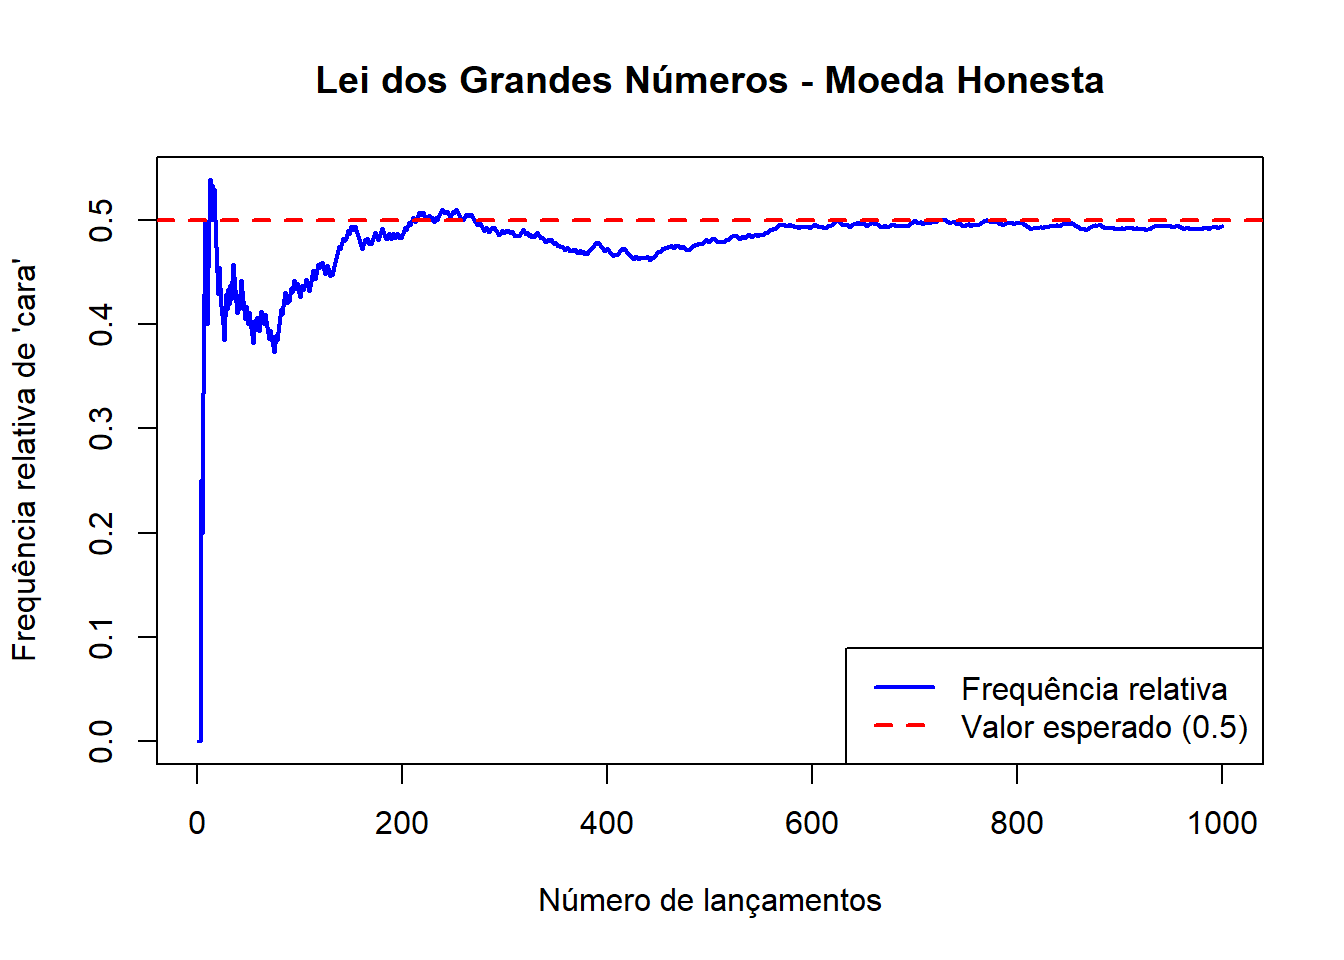
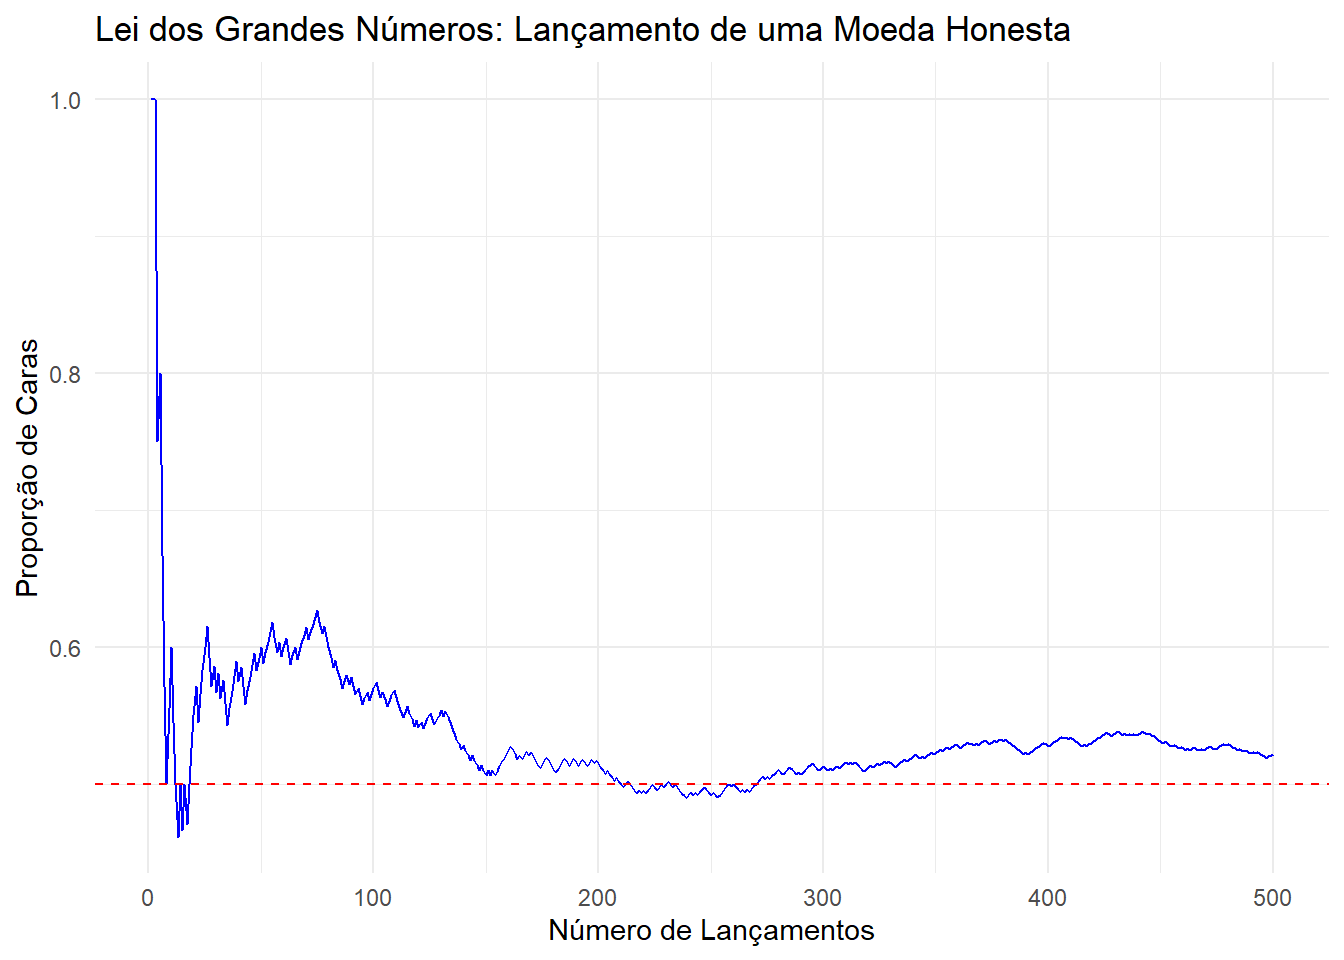
add python script

diff --git a/docs/Probabilidade/LGN.html b/docs/Probabilidade/LGN.html
@@ -226,6 +226,8 @@ window.Quarto = {
   <ul class="collapse">
   <li><a href="#lei-forte-dos-grande-números" id="toc-lei-forte-dos-grande-números" class="nav-link" data-scroll-target="#lei-forte-dos-grande-números">Lei Forte dos Grande Números</a></li>
   <li><a href="#lei-fraca-dos-grande-números" id="toc-lei-fraca-dos-grande-números" class="nav-link" data-scroll-target="#lei-fraca-dos-grande-números">Lei Fraca dos Grande Números</a></li>
+  <li><a href="#relação-entre-leis-e-convergências" id="toc-relação-entre-leis-e-convergências" class="nav-link" data-scroll-target="#relação-entre-leis-e-convergências">Relação entre Leis e Convergências</a></li>
+  <li><a href="#exemplo-o-caso-bernoulli" id="toc-exemplo-o-caso-bernoulli" class="nav-link" data-scroll-target="#exemplo-o-caso-bernoulli">Exemplo: O caso Bernoulli</a></li>
   <li><a href="#exemplo-computacional" id="toc-exemplo-computacional" class="nav-link" data-scroll-target="#exemplo-computacional">Exemplo Computacional</a>
   <ul class="collapse">
   <li><a href="#links-úteis" id="toc-links-úteis" class="nav-link" data-scroll-target="#links-úteis">Links Úteis:</a></li>
@@ -258,7 +260,7 @@ window.Quarto = {
 
 <section id="introdução-e-condições-iniciais" class="level1">
 <h1>Introdução e Condições Iniciais</h1>
-<p>A Lei dos Grandes Números é um dos resultados mais famosos da Teoria da Probabilidade.</p>
+<p>A Lei dos Grandes Números (LGN) é um dos resultados mais famosos da Teoria da Probabilidade.</p>
 <p>Sejam <span class="math inline">\(X_1, X_2, ...\)</span> variáveis aleatórias independentes e identicamente distribuídas (<span class="math inline">\(iid\)</span>) com média e variância existentes e finitas. Isto é:</p>
 <p><span class="math inline">\(-\infty &lt; \mu &lt; +\infty\)</span></p>
 <p><span class="math inline">\(0 &lt; \sigma^2 &lt; +\infty\)</span></p>
@@ -270,6 +272,7 @@ window.Quarto = {
 <p><span class="math inline">\(\bar{X} \xrightarrow{n \rightarrow + \infty} \mu\)</span> com probabilidade 1.</p>
 <p>Observe que <span class="math inline">\(\bar{X} \xrightarrow{n \rightarrow + \infty} \mu\)</span> é um <strong>evento</strong>. Logo, a Lei Forte poderia ser reescrita com uma notação probabilística alternativa:</p>
 <p><span class="math inline">\(P\left(\bar{X} \xrightarrow{n \rightarrow + \infty} \mu \right) = 1\)</span></p>
+<p>Este resultado estabelece que <span class="math inline">\(\bar{X}\)</span> converge <em>quase certamente</em> para <span class="math inline">\(\mu\)</span>. Podemos interpretar esse resultado como sendo <em>à medida que n cresce, no infinito, <span class="math inline">\(\bar{X}\)</span> e <span class="math inline">\(\mu\)</span> serão iguais</em>. Ou seja, é uma convergência pontual do valor de uma variável aleatória para uma constante (a média populacional).</p>
 <p>A prova deste teorema implica em provar que o evento acima é um evento de probabilidade 1, o que exige maior formalidade matemática fazendo uso do <a href="https://pt.wikipedia.org/wiki/Lema_de_Borel-Cantelli">Lema de Borel-Cantelli</a>.</p>
 <p><strong>Prova.</strong> Ver Cáp. 5 de <span class="citation" data-cites="barryjames2023">James (<a href="#ref-barryjames2023" role="doc-biblioref">2023</a>)</span>.</p>
 </section>
@@ -277,8 +280,26 @@ window.Quarto = {
 <h2 class="anchored" data-anchor-id="lei-fraca-dos-grande-números">Lei Fraca dos Grande Números</h2>
 <p>A Lei Fraca estabelece que <span class="math inline">\(\forall \varepsilon &gt; 0\)</span>, então:</p>
 <p><span class="math inline">\(P\left(\left| \bar{X} - \mu \right| \ge \varepsilon \right) \xrightarrow{n \rightarrow + \infty} 0\)</span></p>
-<p><strong>Prova.</strong> A prova faz uso da Desigualdade de Chebyshev:</p>
-<p><span class="math inline">\(P\left(\left| \bar{X} - \mu \right| \ge \varepsilon \right) \overset{\text{Des. Cheb.}}{\le} \frac{Var(\bar{X})}{\varepsilon^2} = \frac{Var\left(\frac{\sum_{i=1}^{n}{X_i}}{n}\right)}{\varepsilon^2} \overset{\text{Prop. Esper.}}{=} \frac{Var(\sum_{i=1}^{n}{X_i})}{n^2\varepsilon^2} \overset{\text{Indep.}}{=} \frac{\sum_{i=1}^{n}{Var(X_i)}}{n^2\varepsilon^2} \overset{\text{Ident. Dist.}}{=} \frac{n\sigma^2}{n^2\varepsilon^2} = \frac{\sigma^2}{n\varepsilon^2} \xrightarrow{n \rightarrow + \infty} 0\)</span></p>
+<p>Este resultado estabelece que <span class="math inline">\(\bar{X}\)</span> converge <em>em probabilidade</em> para <span class="math inline">\(\mu\)</span>.</p>
+<p><strong>Prova.</strong> A prova faz uso da <a href="https://pt.wikipedia.org/wiki/Desigualdade_de_Chebyshev">Desigualdade de Chebyshev</a>:</p>
+<p><span class="math inline">\(P\left(\left| \bar{X} - \mu \right| \ge \varepsilon \right) \overset{\text{Des. Cheb.}}{\le} \frac{Var(\bar{X})}{\varepsilon^2} = \frac{Var\left(\frac{\sum_{i=1}^{n}{X_i}}{n}\right)}{\varepsilon^2} \overset{\text{Prop. da Constante}}{=} \frac{Var(\sum_{i=1}^{n}{X_i})}{n^2\varepsilon^2} \overset{\text{Indep.}}{=} \frac{\sum_{i=1}^{n}{Var(X_i)}}{n^2\varepsilon^2} \overset{\text{Ident. Dist.}}{=} \frac{n\sigma^2}{n^2\varepsilon^2} = \frac{\sigma^2}{n\varepsilon^2} \xrightarrow{n \rightarrow + \infty} 0\)</span></p>
+<p>Este resultado ilustra que <span class="math inline">\(\bar{X}\)</span> converge <em>em probabilidade</em> para <span class="math inline">\(\mu\)</span>. Podemos interpretar esse resultado como sendo <em>à medida que n cresce, é extremamente improvável que a diferença entre</em> <span class="math inline">\(\bar{X}\)</span> e <span class="math inline">\(\mu\)</span> seja maior que <span class="math inline">\(\varepsilon\)</span>.</p>
+</section>
+<section id="relação-entre-leis-e-convergências" class="level2">
+<h2 class="anchored" data-anchor-id="relação-entre-leis-e-convergências">Relação entre Leis e Convergências</h2>
+<p>É intuitivo pensar afirmarmos que duas quantidades são <strong>iguais</strong> é mais “forte” do que dizer que essas duas quantidades são “altamente prováveis de <strong>estarem próximas</strong>”. Ora, se uma coisa é igual à outra, isso implica de que elas também são próximas. Tendo em vista que a Lei Forte dos Grandes Números representa a convergência <em>quase certa</em> e a Lei Fraca representa a convergência <em>em probabilidade</em>, temos que se</p>
+<p><span class="math inline">\(Convergência\ Quase\ Certa \implies Convergência\ em\ Probabilidade\)</span></p>
+<p>então,</p>
+<p><span class="math inline">\(Lei\ Forte \implies Lei\ Fraca\)</span></p>
+<p>O contrário não vale para nenhuma das duas afirmativas acima.</p>
+</section>
+<section id="exemplo-o-caso-bernoulli" class="level2">
+<h2 class="anchored" data-anchor-id="exemplo-o-caso-bernoulli">Exemplo: O caso Bernoulli</h2>
+<p>Suponha uma sequência independente de lançamentos de uma moeda honesta e a variável aleatória <span class="math inline">\(X_i = 1\)</span> se cara e <span class="math inline">\(X_i = 0\)</span> se coroa. Ou seja,</p>
+<p><span class="math inline">\(X_i \overset{iid}{\sim}Bernoulli(p)\)</span></p>
+<p>onde <span class="math inline">\(p = 0,5\)</span>. Então, pela Lei Forte dos Grandes Números:</p>
+<p><span class="math inline">\(\bar{X} = \frac{\sum_{i=1}^{n}{X_i}}{n} \xrightarrow{n \rightarrow + \infty} p\)</span></p>
+<p>Este resultado mostra que a medida que o jogarmos a moeda infinitas vezes, iremos convergir para um cenário em que metade dos lançamentos serão caras e metade serão coroas. Note que o resultado vale quando <span class="math inline">\(n \rightarrow + \infty\)</span>, ou seja, ele não estabelece nada em uma quantidade finita de lançamentos onde pode existir variabilidade. Por exemplo, mesmo que seja altamente improvável que nos primeiros 100 lançamentos todos os resultados sejam a face “Cara”, não existe nada matematicamente que estabeleça que isso seja impossível. No entanto, no limite do infinito as quantidades iniciais serão “engolidas” pela LGN. Para uma discussão mais aprofundada sobre esse tema recomenda-se uma leitura sobre o <a href="https://en.wikipedia.org/wiki/Gambler%27s_fallacy">Gambler’s Fallacy</a>.</p>
 </section>
 <section id="exemplo-computacional" class="level2">
 <h2 class="anchored" data-anchor-id="exemplo-computacional">Exemplo Computacional</h2>
@@ -286,31 +307,73 @@ window.Quarto = {
 <div class="cell">
 <details class="code-fold">
 <summary>Mostrar Código</summary>
-<div class="sourceCode cell-code" id="cb1"><pre class="sourceCode r code-with-copy"><code class="sourceCode r"><span id="cb1-1"><a href="#cb1-1" aria-hidden="true" tabindex="-1"></a><span class="co"># Definindo parâmetros</span></span>
-<span id="cb1-2"><a href="#cb1-2" aria-hidden="true" tabindex="-1"></a><span class="fu">set.seed</span>(<span class="dv">123</span>)           <span class="co"># Para reprodutibilidade</span></span>
-<span id="cb1-3"><a href="#cb1-3" aria-hidden="true" tabindex="-1"></a>n_lancamentos <span class="ot">&lt;-</span> <span class="dv">1000</span>  <span class="co"># Número total de lançamentos</span></span>
+<div class="sourceCode cell-code" id="cb1"><pre class="sourceCode r code-with-copy"><code class="sourceCode r"><span id="cb1-1"><a href="#cb1-1" aria-hidden="true" tabindex="-1"></a><span class="co"># Carregar as bibliotecas necessárias</span></span>
+<span id="cb1-2"><a href="#cb1-2" aria-hidden="true" tabindex="-1"></a><span class="fu">library</span>(ggplot2)</span>
+<span id="cb1-3"><a href="#cb1-3" aria-hidden="true" tabindex="-1"></a><span class="fu">library</span>(dplyr)</span>
 <span id="cb1-4"><a href="#cb1-4" aria-hidden="true" tabindex="-1"></a></span>
-<span id="cb1-5"><a href="#cb1-5" aria-hidden="true" tabindex="-1"></a><span class="co"># Simulando lançamentos: 1 representa "cara", 0 representa "coroa"</span></span>
-<span id="cb1-6"><a href="#cb1-6" aria-hidden="true" tabindex="-1"></a>resultados <span class="ot">&lt;-</span> <span class="fu">sample</span>(<span class="fu">c</span>(<span class="dv">0</span>, <span class="dv">1</span>), <span class="at">size =</span> n_lancamentos, <span class="at">replace =</span> <span class="cn">TRUE</span>)</span>
+<span id="cb1-5"><a href="#cb1-5" aria-hidden="true" tabindex="-1"></a><span class="co"># Definir o número de lançamentos</span></span>
+<span id="cb1-6"><a href="#cb1-6" aria-hidden="true" tabindex="-1"></a>n <span class="ot">&lt;-</span> <span class="dv">500</span></span>
 <span id="cb1-7"><a href="#cb1-7" aria-hidden="true" tabindex="-1"></a></span>
-<span id="cb1-8"><a href="#cb1-8" aria-hidden="true" tabindex="-1"></a><span class="co"># Calculando a média acumulada (frequência relativa de "cara")</span></span>
-<span id="cb1-9"><a href="#cb1-9" aria-hidden="true" tabindex="-1"></a>media_acumulada <span class="ot">&lt;-</span> <span class="fu">cumsum</span>(resultados) <span class="sc">/</span> (<span class="dv">1</span><span class="sc">:</span>n_lancamentos)</span>
-<span id="cb1-10"><a href="#cb1-10" aria-hidden="true" tabindex="-1"></a></span>
-<span id="cb1-11"><a href="#cb1-11" aria-hidden="true" tabindex="-1"></a><span class="co"># Valor esperado teórico</span></span>
-<span id="cb1-12"><a href="#cb1-12" aria-hidden="true" tabindex="-1"></a>valor_esperado <span class="ot">&lt;-</span> <span class="fl">0.5</span></span>
-<span id="cb1-13"><a href="#cb1-13" aria-hidden="true" tabindex="-1"></a></span>
-<span id="cb1-14"><a href="#cb1-14" aria-hidden="true" tabindex="-1"></a><span class="co"># Plotando o gráfico</span></span>
-<span id="cb1-15"><a href="#cb1-15" aria-hidden="true" tabindex="-1"></a><span class="fu">plot</span>(media_acumulada, <span class="at">type =</span> <span class="st">"l"</span>, <span class="at">col =</span> <span class="st">"blue"</span>, <span class="at">lwd =</span> <span class="dv">2</span>,</span>
-<span id="cb1-16"><a href="#cb1-16" aria-hidden="true" tabindex="-1"></a>     <span class="at">xlab =</span> <span class="st">"Número de lançamentos"</span>, <span class="at">ylab =</span> <span class="st">"Frequência relativa de 'cara'"</span>,</span>
-<span id="cb1-17"><a href="#cb1-17" aria-hidden="true" tabindex="-1"></a>     <span class="at">main =</span> <span class="st">"Lei dos Grandes Números - Moeda Honesta"</span>)</span>
-<span id="cb1-18"><a href="#cb1-18" aria-hidden="true" tabindex="-1"></a><span class="fu">abline</span>(<span class="at">h =</span> valor_esperado, <span class="at">col =</span> <span class="st">"red"</span>, <span class="at">lty =</span> <span class="dv">2</span>, <span class="at">lwd =</span> <span class="dv">2</span>)</span>
-<span id="cb1-19"><a href="#cb1-19" aria-hidden="true" tabindex="-1"></a><span class="fu">legend</span>(<span class="st">"bottomright"</span>, <span class="at">legend =</span> <span class="fu">c</span>(<span class="st">"Frequência relativa"</span>, <span class="st">"Valor esperado (0.5)"</span>),</span>
-<span id="cb1-20"><a href="#cb1-20" aria-hidden="true" tabindex="-1"></a>       <span class="at">col =</span> <span class="fu">c</span>(<span class="st">"blue"</span>, <span class="st">"red"</span>), <span class="at">lty =</span> <span class="fu">c</span>(<span class="dv">1</span>, <span class="dv">2</span>), <span class="at">lwd =</span> <span class="dv">2</span>)</span></code><button title="Copy to Clipboard" class="code-copy-button"><i class="bi"></i></button></pre></div>
+<span id="cb1-8"><a href="#cb1-8" aria-hidden="true" tabindex="-1"></a><span class="co"># Simular lançamentos de uma moeda honesta</span></span>
+<span id="cb1-9"><a href="#cb1-9" aria-hidden="true" tabindex="-1"></a><span class="fu">set.seed</span>(<span class="dv">123</span>) <span class="co"># Para reprodutibilidade</span></span>
+<span id="cb1-10"><a href="#cb1-10" aria-hidden="true" tabindex="-1"></a>lancamentos <span class="ot">&lt;-</span> <span class="fu">sample</span>(<span class="fu">c</span>(<span class="st">"Cara"</span>, <span class="st">"Coroa"</span>), n, <span class="at">replace =</span> <span class="cn">TRUE</span>)</span>
+<span id="cb1-11"><a href="#cb1-11" aria-hidden="true" tabindex="-1"></a></span>
+<span id="cb1-12"><a href="#cb1-12" aria-hidden="true" tabindex="-1"></a><span class="co"># Calcular a proporção acumulada de caras</span></span>
+<span id="cb1-13"><a href="#cb1-13" aria-hidden="true" tabindex="-1"></a>dados <span class="ot">&lt;-</span> <span class="fu">data.frame</span>(lancamentos) <span class="sc">%&gt;%</span></span>
+<span id="cb1-14"><a href="#cb1-14" aria-hidden="true" tabindex="-1"></a>  <span class="fu">mutate</span>(</span>
+<span id="cb1-15"><a href="#cb1-15" aria-hidden="true" tabindex="-1"></a>    <span class="at">n =</span> <span class="fu">row_number</span>(),</span>
+<span id="cb1-16"><a href="#cb1-16" aria-hidden="true" tabindex="-1"></a>    <span class="at">proporcao_cara =</span> <span class="fu">cumsum</span>(lancamentos <span class="sc">==</span> <span class="st">"Cara"</span>) <span class="sc">/</span> n</span>
+<span id="cb1-17"><a href="#cb1-17" aria-hidden="true" tabindex="-1"></a>  )</span>
+<span id="cb1-18"><a href="#cb1-18" aria-hidden="true" tabindex="-1"></a></span>
+<span id="cb1-19"><a href="#cb1-19" aria-hidden="true" tabindex="-1"></a><span class="co"># Criar o gráfico</span></span>
+<span id="cb1-20"><a href="#cb1-20" aria-hidden="true" tabindex="-1"></a><span class="fu">ggplot</span>(dados, <span class="fu">aes</span>(<span class="at">x =</span> n, <span class="at">y =</span> proporcao_cara)) <span class="sc">+</span></span>
+<span id="cb1-21"><a href="#cb1-21" aria-hidden="true" tabindex="-1"></a>  <span class="fu">geom_line</span>(<span class="at">color =</span> <span class="st">"blue"</span>) <span class="sc">+</span></span>
+<span id="cb1-22"><a href="#cb1-22" aria-hidden="true" tabindex="-1"></a>  <span class="fu">labs</span>(<span class="at">title =</span> <span class="st">"Lei dos Grandes Números: Lançamento de uma Moeda Honesta"</span>,</span>
+<span id="cb1-23"><a href="#cb1-23" aria-hidden="true" tabindex="-1"></a>       <span class="at">x =</span> <span class="st">"Número de Lançamentos"</span>,</span>
+<span id="cb1-24"><a href="#cb1-24" aria-hidden="true" tabindex="-1"></a>       <span class="at">y =</span> <span class="st">"Proporção de Caras"</span>) <span class="sc">+</span></span>
+<span id="cb1-25"><a href="#cb1-25" aria-hidden="true" tabindex="-1"></a>  <span class="fu">geom_hline</span>(<span class="at">yintercept =</span> <span class="fl">0.5</span>, <span class="at">linetype =</span> <span class="st">"dashed"</span>, <span class="at">color =</span> <span class="st">"red"</span>) <span class="sc">+</span></span>
+<span id="cb1-26"><a href="#cb1-26" aria-hidden="true" tabindex="-1"></a>  <span class="fu">theme_minimal</span>()</span></code><button title="Copy to Clipboard" class="code-copy-button"><i class="bi"></i></button></pre></div>
 </details>
 <div class="cell-output-display">
 <div>
 <figure class="figure">
 <p><img src="LGN_files/figure-html/unnamed-chunk-1-1.png" class="img-fluid figure-img" width="672"></p>
+</figure>
+</div>
+</div>
+</div>
+<p>No Python:</p>
+<div class="cell">
+<details class="code-fold">
+<summary>Mostrar Código</summary>
+<div class="sourceCode cell-code" id="cb2"><pre class="sourceCode python code-with-copy"><code class="sourceCode python"><span id="cb2-1"><a href="#cb2-1" aria-hidden="true" tabindex="-1"></a><span class="im">import</span> numpy <span class="im">as</span> np</span>
+<span id="cb2-2"><a href="#cb2-2" aria-hidden="true" tabindex="-1"></a><span class="im">import</span> matplotlib.pyplot <span class="im">as</span> plt</span>
+<span id="cb2-3"><a href="#cb2-3" aria-hidden="true" tabindex="-1"></a></span>
+<span id="cb2-4"><a href="#cb2-4" aria-hidden="true" tabindex="-1"></a><span class="co"># Definindo o número de lançamentos</span></span>
+<span id="cb2-5"><a href="#cb2-5" aria-hidden="true" tabindex="-1"></a>n <span class="op">=</span> <span class="dv">500</span></span>
+<span id="cb2-6"><a href="#cb2-6" aria-hidden="true" tabindex="-1"></a></span>
+<span id="cb2-7"><a href="#cb2-7" aria-hidden="true" tabindex="-1"></a><span class="co"># Simulando lançamentos de uma moeda honesta</span></span>
+<span id="cb2-8"><a href="#cb2-8" aria-hidden="true" tabindex="-1"></a>np.random.seed(<span class="dv">123</span>)  <span class="co"># Para reprodutibilidade</span></span>
+<span id="cb2-9"><a href="#cb2-9" aria-hidden="true" tabindex="-1"></a>lancamentos <span class="op">=</span> np.random.choice([<span class="st">'Cara'</span>, <span class="st">'Coroa'</span>], size<span class="op">=</span>n)</span>
+<span id="cb2-10"><a href="#cb2-10" aria-hidden="true" tabindex="-1"></a></span>
+<span id="cb2-11"><a href="#cb2-11" aria-hidden="true" tabindex="-1"></a><span class="co"># Calculando a proporção acumulada de caras</span></span>
+<span id="cb2-12"><a href="#cb2-12" aria-hidden="true" tabindex="-1"></a>proporcao_cara <span class="op">=</span> np.cumsum(lancamentos <span class="op">==</span> <span class="st">'Cara'</span>) <span class="op">/</span> np.arange(<span class="dv">1</span>, n <span class="op">+</span> <span class="dv">1</span>)</span>
+<span id="cb2-13"><a href="#cb2-13" aria-hidden="true" tabindex="-1"></a></span>
+<span id="cb2-14"><a href="#cb2-14" aria-hidden="true" tabindex="-1"></a><span class="co"># Criando o gráfico</span></span>
+<span id="cb2-15"><a href="#cb2-15" aria-hidden="true" tabindex="-1"></a>plt.figure(figsize<span class="op">=</span>(<span class="dv">10</span>, <span class="dv">5</span>))</span>
+<span id="cb2-16"><a href="#cb2-16" aria-hidden="true" tabindex="-1"></a>plt.plot(proporcao_cara, color<span class="op">=</span><span class="st">'blue'</span>, label<span class="op">=</span><span class="st">'Proporção de Caras'</span>)</span>
+<span id="cb2-17"><a href="#cb2-17" aria-hidden="true" tabindex="-1"></a>plt.axhline(y<span class="op">=</span><span class="fl">0.5</span>, color<span class="op">=</span><span class="st">'red'</span>, linestyle<span class="op">=</span><span class="st">'--'</span>, label<span class="op">=</span><span class="st">'Proporção Esperada (0.5)'</span>)</span>
+<span id="cb2-18"><a href="#cb2-18" aria-hidden="true" tabindex="-1"></a>plt.title(<span class="st">'Lei dos Grandes Números: Lançamento de uma Moeda Honesta'</span>)</span>
+<span id="cb2-19"><a href="#cb2-19" aria-hidden="true" tabindex="-1"></a>plt.xlabel(<span class="st">'Número de Lançamentos'</span>)</span>
+<span id="cb2-20"><a href="#cb2-20" aria-hidden="true" tabindex="-1"></a>plt.ylabel(<span class="st">'Proporção de Caras'</span>)</span>
+<span id="cb2-21"><a href="#cb2-21" aria-hidden="true" tabindex="-1"></a>plt.legend()</span>
+<span id="cb2-22"><a href="#cb2-22" aria-hidden="true" tabindex="-1"></a>plt.grid()</span>
+<span id="cb2-23"><a href="#cb2-23" aria-hidden="true" tabindex="-1"></a>plt.show()</span></code><button title="Copy to Clipboard" class="code-copy-button"><i class="bi"></i></button></pre></div>
+</details>
+<div class="cell-output-display">
+<div>
+<figure class="figure">
+<p><img src="LGN_files/figure-html/unnamed-chunk-2-1.png" class="img-fluid figure-img" width="960"></p>
 </figure>
 </div>
 </div>

diff --git a/docs/index.html b/docs/index.html
@@ -160,6 +160,9 @@ ul.task-list li input[type="checkbox"] {
 <p>Este é um website baseado no Quarto da empresa Posit.</p>
 <p>Templates úteis: <a href="https://drganghe.github.io/quarto-academic-site-examples.html" class="uri">https://drganghe.github.io/quarto-academic-site-examples.html</a></p>
 <p>Site oficial do Quarto: <a href="https://quarto.org/docs/websites" class="uri">https://quarto.org/docs/websites</a>.</p>
+<p>Para rodar códigos em Python, é necessário instalar as bibliotecas usando o reticulate e ter o jupyter instalado.</p>
+<p>Exemplo:</p>
+<pre><code>reticulate::py_require("matplotlib")</code></pre>
 
 
 
